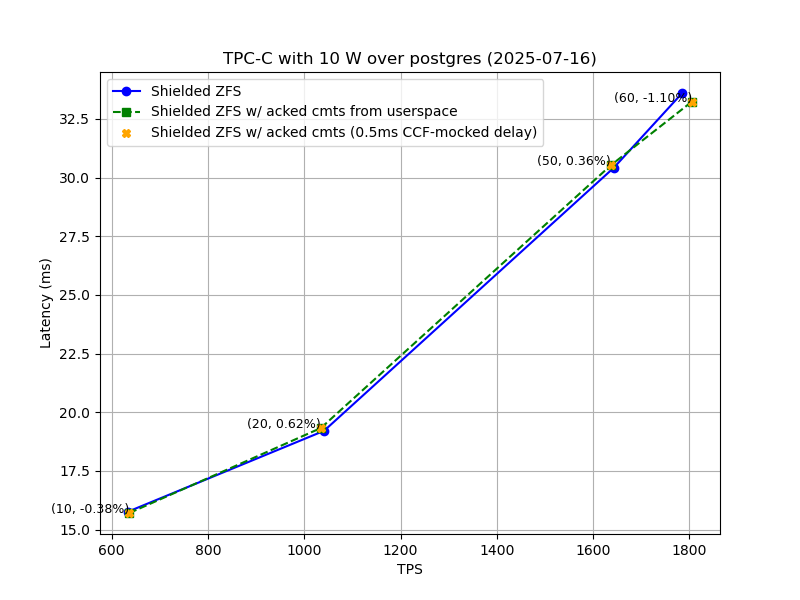
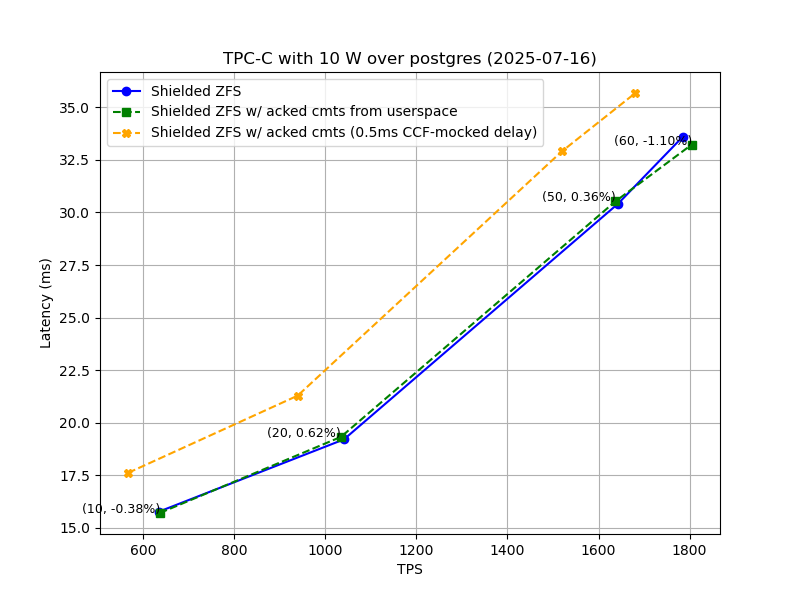
.

diff --git a/postgres-exp-user-to-kernel-com/results_15_07/plot.py b/postgres-exp-user-to-kernel-com/results_15_07/plot.py
@@ -29,7 +29,7 @@ plt.figure(figsize=(8, 6))
 
 plt.plot(throughput_zfs, latency_zfs, 'o-', label='Shielded ZFS', color='blue')
 plt.plot(throughput_szfs, latency_szfs, 's--', label='Shielded ZFS w/ acked cmts from userspace', color='green')
-plt.plot(throughput_szfs, latency_szfs, 'X', label='Shielded ZFS w/ acked cmts (0.5ms CCF-mocked delay)', color='orange')
+plt.plot(throughput_szfs_delay500us, latency_szfs_delay500us, 'X--', label='Shielded ZFS w/ acked cmts (0.5ms CCF-mocked delay)', color='orange')
 
 # Add text on top of the data points
 for i in range(len(latency_szfs)):
